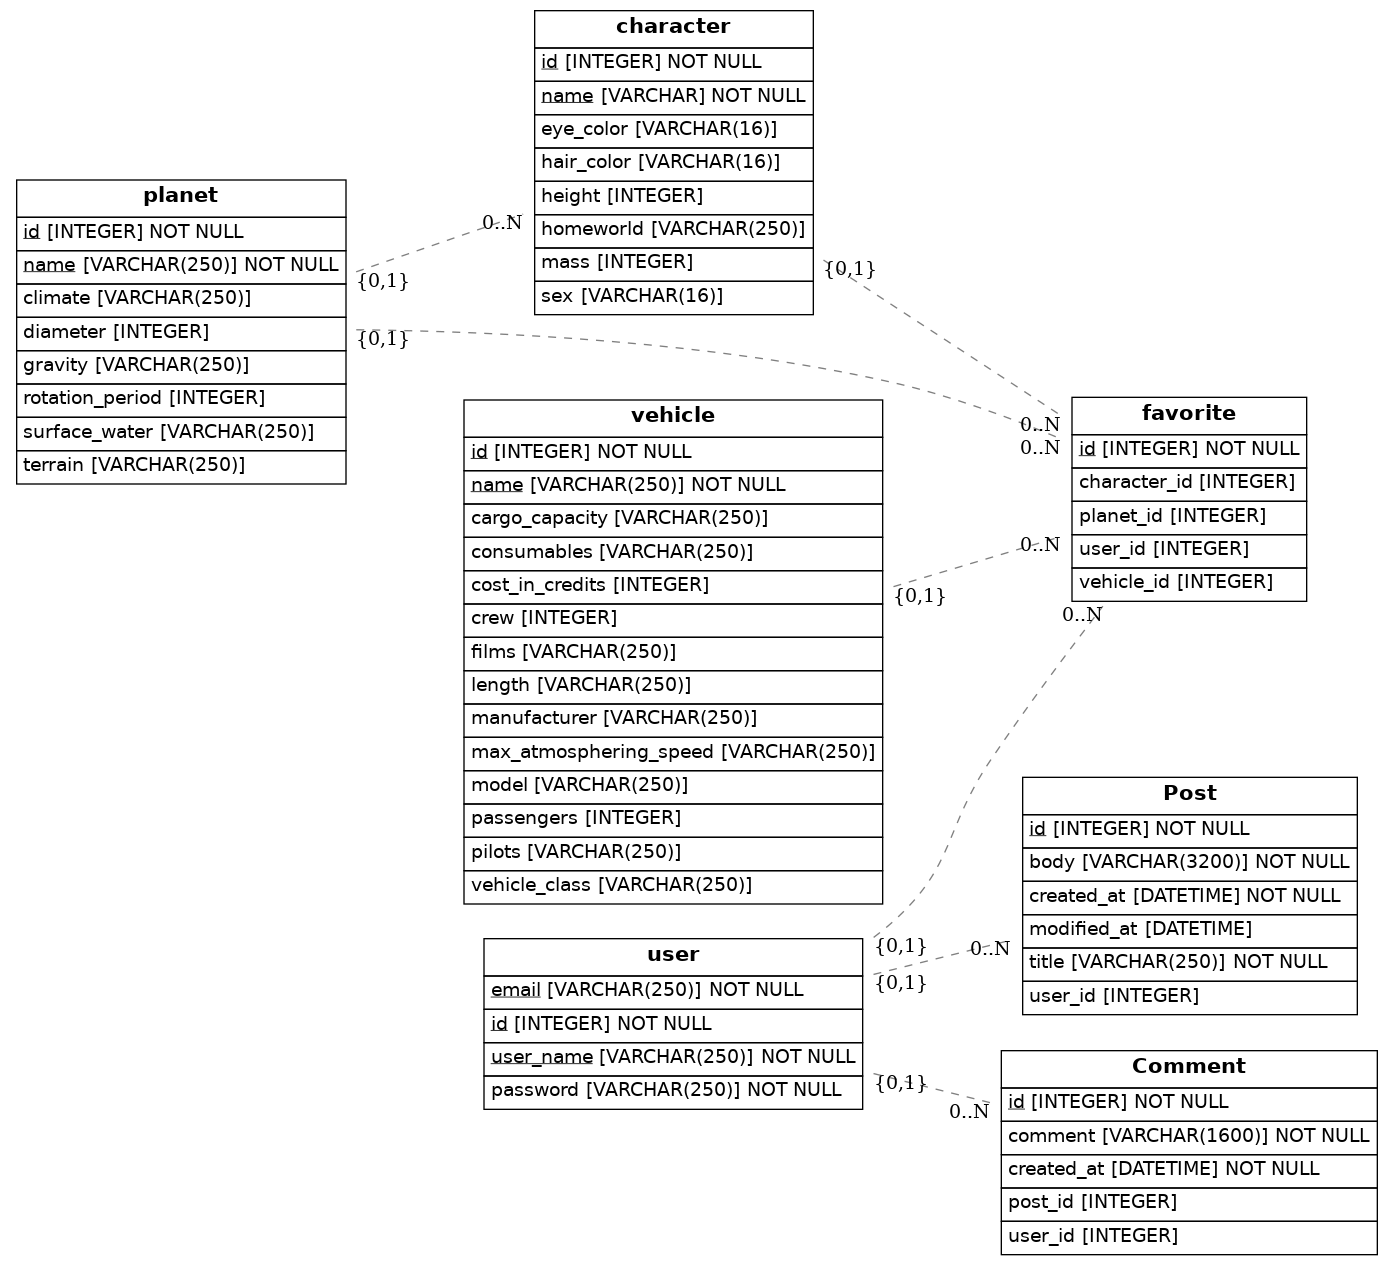
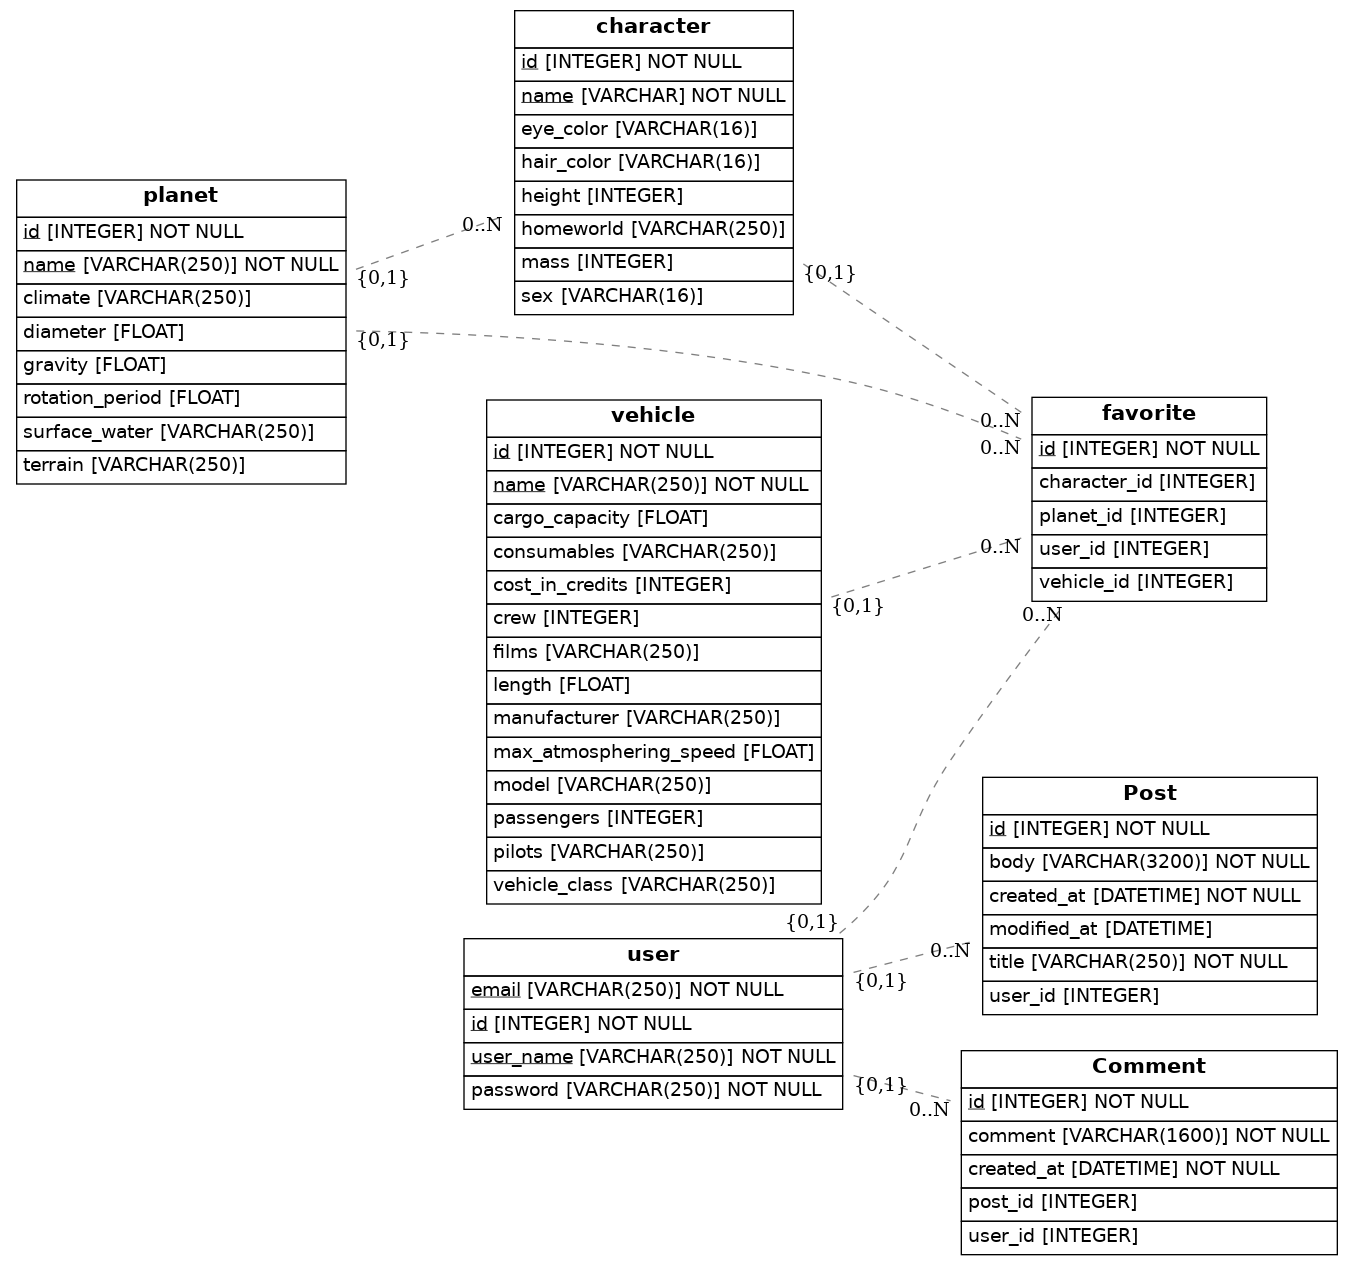
added float

diff --git a/src/models.py b/src/models.py
@@ -1,6 +1,6 @@
 import os
 import sys
-from sqlalchemy import Column, ForeignKey, Integer, String, DateTime
+from sqlalchemy import Column, ForeignKey, Integer, String, DateTime, Float
 from sqlalchemy.orm import relationship, declarative_base
 from sqlalchemy import create_engine
 from eralchemy2 import render_er
@@ -12,9 +12,9 @@ class Planet(Base):
 
     id = Column(Integer, primary_key=True)
     name = Column(String(250), primary_key=True)
-    diameter = Column(Integer, nullable=True)
-    rotation_period = Column(Integer, nullable=True)
-    gravity = Column(String(250), nullable=True)
+    diameter = Column(Float, nullable=True)
+    rotation_period = Column(Float, nullable=True)
+    gravity = Column(Float, nullable=True)
     climate = Column(String(250), nullable=True)
     terrain = Column(String(250), nullable=True)
     surface_water = Column(String(250), nullable=True)
@@ -42,11 +42,11 @@ class Vehicle(Base):
     vehicle_class = Column(String(250), nullable=True)
     manufacturer = Column(String(250), nullable=True)
     cost_in_credits = Column(Integer, nullable=True)
-    length = Column(String(250), nullable=True)
+    length = Column(Float, nullable=True)
     crew = Column(Integer, nullable=True)
     passengers = Column(Integer, nullable=True)
-    max_atmosphering_speed = Column(String(250), nullable=True)
-    cargo_capacity = Column(String(250), nullable=True)
+    max_atmosphering_speed = Column(Float, nullable=True)
+    cargo_capacity = Column(Float, nullable=True)
     consumables = Column(String(250), nullable=True)
     films = Column(String(250), nullable=True)
     pilots = Column(String(250), nullable=True)
